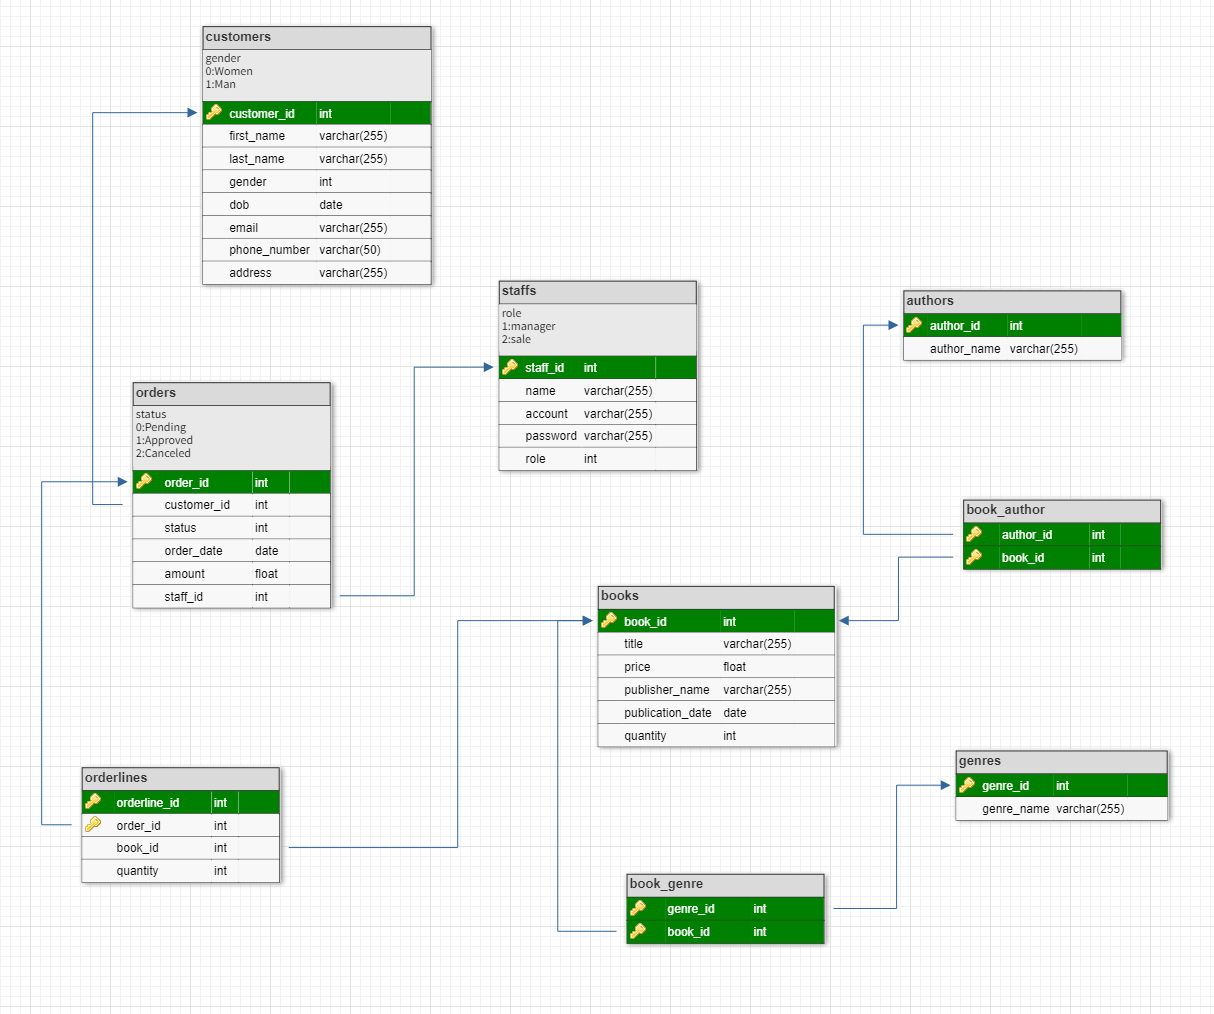
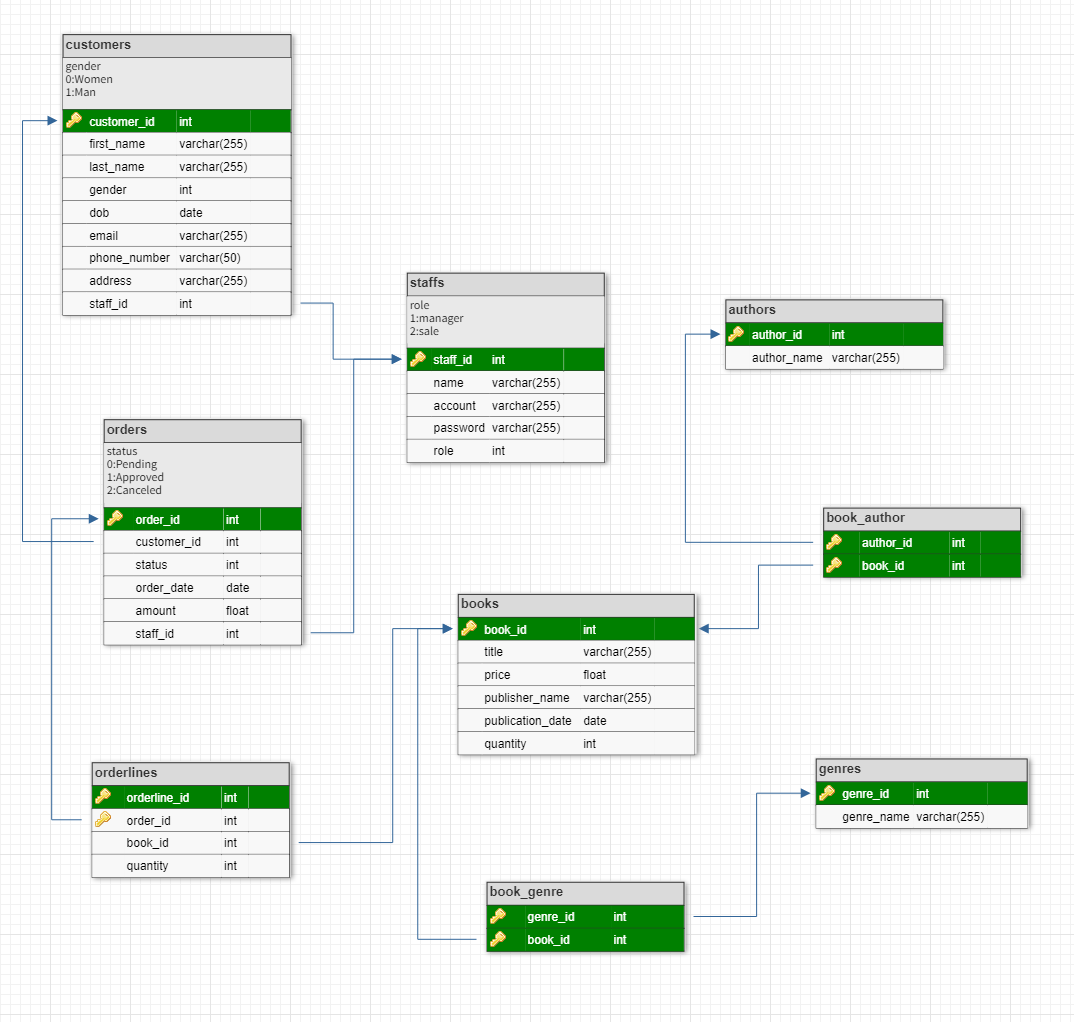
final

diff --git a/templates/customer.html b/templates/customer.html
@@ -37,6 +37,7 @@
 			<th scope="col">Email</th>
 			<th scope="col">Phone Number</th>
             <th scope="col">Address</th>
+			<th scope="col">Staff Id</th>
 		</tr>
 	</thead>
 	<tbody>
@@ -54,6 +55,7 @@
 			<td>{{ customer.email }}</td>
 			<td>{{ customer.phone_number }}</td>
             <td>{{ customer.address }}</td>
+			<td>{{ customer.staff_id}}</td>
 			<td><a href='updatecustomer/{{ customer.customer_id }}'>Edit</a></td>
             <td><a href='deletecustomer/{{ customer.customer_id }}'>Delete</a></td>
 		</tr>

diff --git a/app.py b/app.py
@@ -16,10 +16,10 @@ from utils.sale import *
 
 app = Flask(__name__)
 def connection():
-    s = 'DESKTOP-7KES151\HUYNT' #Your server name 
+    s = 'DESKTOP-APQT58G' #Your server name 
     d = 'bookstore' 
-    u = 'sa' #Your login
-    p = '' #Your login password
+    u = 'khanhluong' #Your login
+    p = 'khanh692' #Your login password
     cstr = 'DRIVER={ODBC Driver 17 for SQL Server};SERVER='+s+';DATABASE='+d+';UID='+u+';PWD='+ p
     conn = pyodbc.connect(cstr)
     return conn
@@ -325,6 +325,11 @@ def customersRoute():
 #add customers route
 @app.route('/addcustomer', methods=['GET', 'POST'])
 def addCustomersRoute():
+    conn = connection()
+    cur1 = conn.cursor()
+    cur1.execute("SELECT staff_id FROM staffs where account LIKE ? AND password LIKE ?", session["account"], session["password"])
+    staff_data = cur1.fetchall()[0][0]
+    cur1.close()
     if request.method == 'GET':
         return render_template("addcustomer.html", customer = None)
     if request.method == 'POST':
@@ -336,7 +341,7 @@ def addCustomersRoute():
         email = request.form['email']
         phone_number = request.form['phone_number']
         address = request.form['address']
-        response = addCustomers(sqlserver,customer_id, first_name, last_name, gender, dob, email, phone_number, address)
+        response = addCustomers(sqlserver,customer_id, first_name, last_name, gender, dob, email, phone_number, address, staff_data)
         if response == 1:
             flash("Add customer successfully!")
             return redirect(url_for('customersRoute'))

diff --git a/utils/customers.py b/utils/customers.py
@@ -9,10 +9,10 @@ def allCustomers(sqlserver):
     return customersData
 
 #add customers
-def addCustomers(sqlserver, customer_id, first_name, last_name, gender, dob, email, phone_number, address):
+def addCustomers(sqlserver, customer_id, first_name, last_name, gender, dob, email, phone_number, address, staff_id):
     cur = sqlserver.cursor()
     try:
-        cur.execute("exec insert_customers ?, ?, ?, ?, ?, ?, ?, ?", customer_id, first_name, last_name, gender, dob, email, phone_number, address)
+        cur.execute("exec insert_customers ?, ?, ?, ?, ?, ?, ?, ?,?", customer_id, first_name, last_name, gender, dob, email, phone_number, address, staff_id)
         result = 1
     except:
         result = 0
